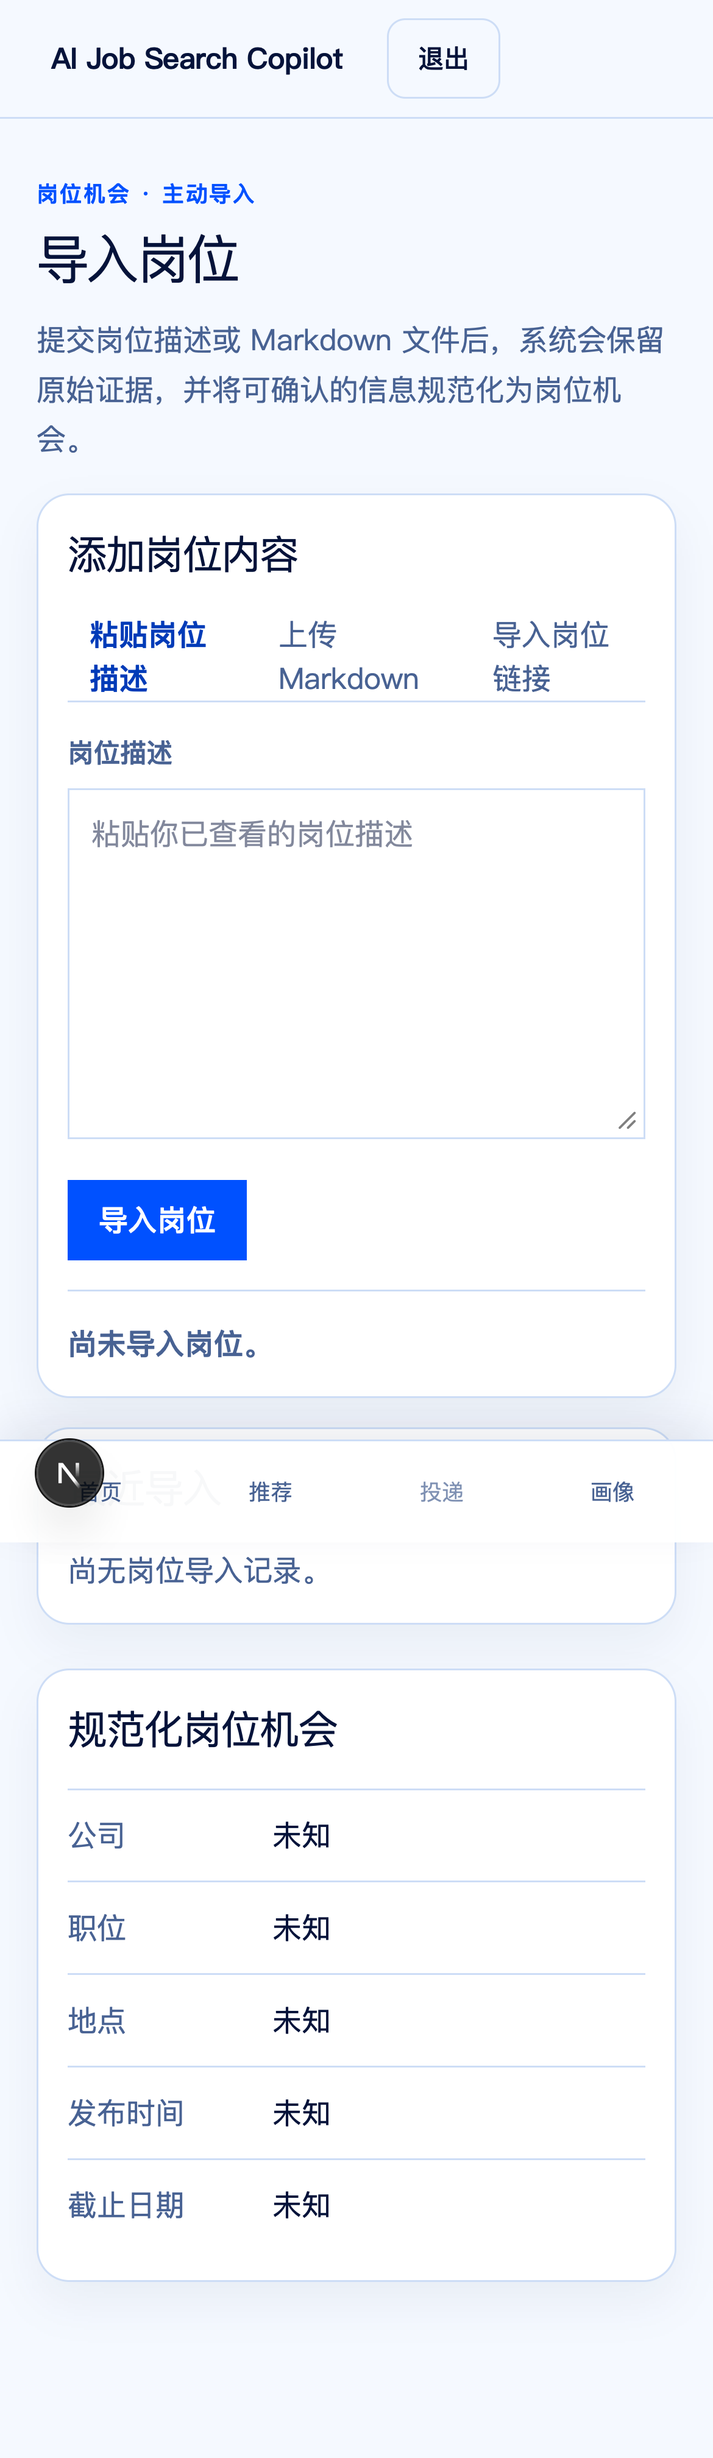
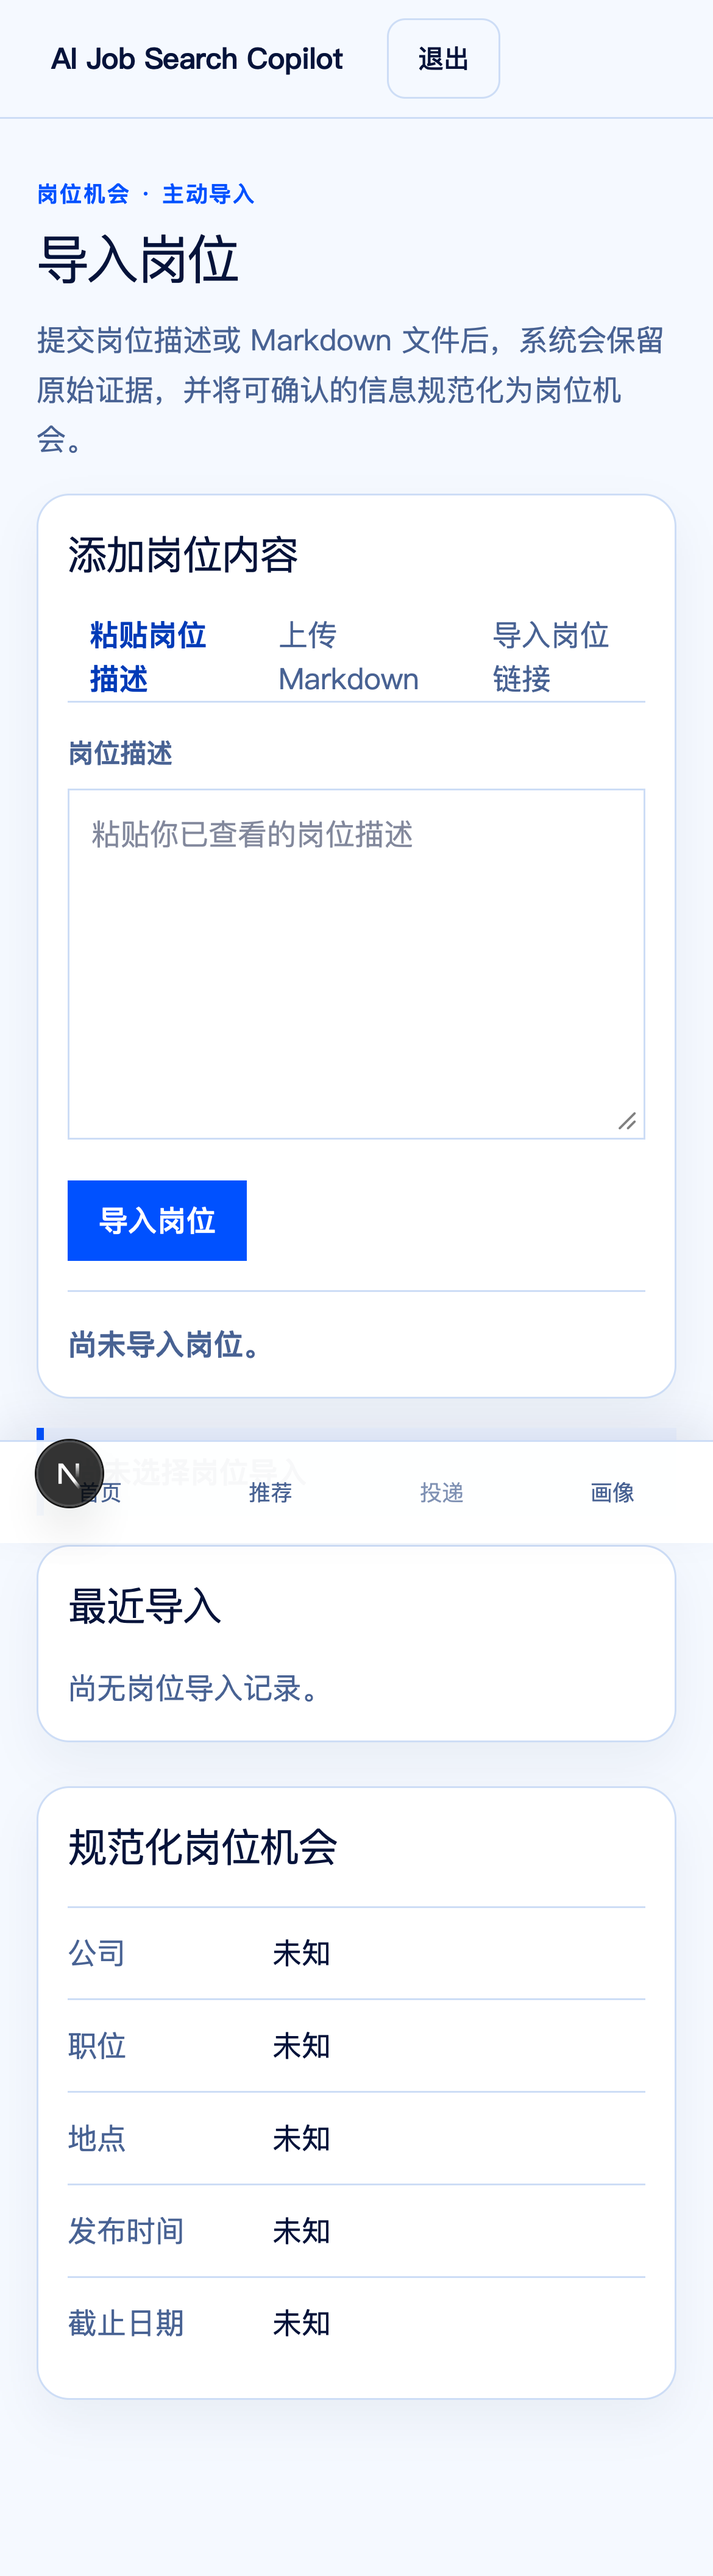
feat(web): complete career lens operational states

diff --git a/apps/web/e2e/career-lens-acceptance.spec.ts b/apps/web/e2e/career-lens-acceptance.spec.ts
@@ -53,6 +53,25 @@ async function signIn(page: Page): Promise<void> {
   await expect(page).toHaveURL(/\/home$/u);
 }
 
+async function createCandidateReviewFixture(request: APIRequestContext, project: string): Promise<string> {
+  const session = await request.post(`${apiBaseUrl}/v1/auth/dev/sessions`, {
+    headers: { "x-dev-auth-secret": devAuthSecret }, data: { subject: `career-lens-review-${project}-${Date.now()}` },
+  });
+  expect(session.status()).toBe(201);
+  const token = (await session.json() as { sessionToken: string }).sessionToken;
+  const created = await request.post(`${apiBaseUrl}/v1/career-documents/imports`, {
+    headers: { authorization: `Bearer ${token}` },
+    multipart: { privacyMode: "sanitized_only", file: { name: "career-lens-review.md", mimeType: "text/markdown", buffer: Buffer.from("## 技能\n- TypeScript", "utf8") } },
+  });
+  expect(created.status()).toBe(202);
+  const { importId } = await created.json() as { importId: string };
+  await expect.poll(async () => {
+    const detail = await request.get(`${apiBaseUrl}/v1/career-documents/imports/${importId}`, { headers: { authorization: `Bearer ${token}` } });
+    return detail.ok() ? (await detail.json() as { status: string }).status : "unavailable";
+  }, { timeout: 20_000 }).toBe("completed");
+  return token;
+}
+
 test("captures real Alpha routes for the career lens acceptance review", async ({ page }, testInfo) => {
   await page.emulateMedia({ reducedMotion: "reduce" });
   await page.goto("/");
@@ -89,4 +108,24 @@ test("captures a seeded real Watchlist route without substituting prototype data
   await expect(page.getByRole("article", { name: "目标公司来源：职业透镜真实验收来源" })).toBeVisible();
   await expect(page.evaluate(() => document.documentElement.scrollWidth <= document.documentElement.clientWidth)).resolves.toBe(true);
   await page.screenshot({ path: fixtureScreenshotPath("profile-targets-watchlist-seeded", testInfo.project.name), fullPage: true });
+});
+
+test("captures real Inbox、导入审核与首次推荐旅程状态", async ({ page, request }, testInfo) => {
+  await page.emulateMedia({ reducedMotion: "reduce" });
+  const token = await createCandidateReviewFixture(request, testInfo.project.name);
+  await page.context().addCookies([{ name: "job_copilot_session", value: token, domain: "127.0.0.1", path: "/", httpOnly: true, sameSite: "Lax" }]);
+
+  await page.goto("/home");
+  await expect(page.getByRole("region", { name: "需要你决定的事项", exact: true })).toBeVisible();
+  await expect(page.getByRole("article", { name: "有待确认的画像事实" })).toBeVisible();
+  await expect(page.getByRole("region", { name: "首次推荐旅程" })).toBeVisible();
+  await expect(page.evaluate(() => document.documentElement.scrollWidth <= document.documentElement.clientWidth)).resolves.toBe(true);
+  await page.screenshot({ path: fixtureScreenshotPath("home-inbox", testInfo.project.name), fullPage: true });
+  await page.screenshot({ path: fixtureScreenshotPath("home-first-recommendation-journey", testInfo.project.name), fullPage: true });
+
+  await page.goto("/profile#candidate-facts");
+  await expect(page.getByRole("heading", { name: "待确认事实" })).toBeVisible();
+  await expect(page.getByText("TypeScript", { exact: true })).toBeVisible();
+  await expect(page.evaluate(() => document.documentElement.scrollWidth <= document.documentElement.clientWidth)).resolves.toBe(true);
+  await page.screenshot({ path: fixtureScreenshotPath("profile-import-review", testInfo.project.name), fullPage: true });
 });

diff --git a/apps/web/components/workbench/account-run-policy-view.tsx b/apps/web/components/workbench/account-run-policy-view.tsx
@@ -260,7 +260,7 @@ export function AccountRunPolicyView({ initialControl = null, initialPolicy }: {
     }
   }
 
-  return <main aria-label="账户运行策略" className="container profile-main">
+  return <main aria-label="账户运行策略" className="container profile-main account-run-policy-main">
     <section className="profile-intro"><p className="workbench-kicker">求职画像 · 运行策略</p><h1>账户运行策略</h1><p>系统硬上限保护每次运行。你可以保存更保守的额度；手动运行不受后台窗口限制。</p></section>
     <section aria-labelledby="account-run-control-title" className="job-targets-section">
       <h2 id="account-run-control-title">账户运行控制</h2>
@@ -271,7 +271,7 @@ export function AccountRunPolicyView({ initialControl = null, initialPolicy }: {
       {controlUnavailable && !controlMessage ? <p>运行控制暂不可用</p> : null}
       {controlMessage ? <p aria-live="polite" className="run-policy-status" role="status">{controlMessage}</p> : null}
     </section>
-    <section aria-labelledby="run-policy-comparison-title" className="job-targets-section">
+    <section aria-label="策略生效对照" className="job-targets-section run-policy-comparison">
       <h2 id="run-policy-comparison-title">当前策略对照</h2>
       <div aria-label="当前策略对照表，可横向滚动" className="run-policy-table-wrap" tabIndex={0}><table><thead><tr><th scope="col">设置</th><th scope="col">系统默认</th><th scope="col">硬上限</th><th scope="col">你的设置</th><th scope="col">最终生效</th></tr></thead><tbody>
         {(Object.keys(discoveryLabels) as Array<keyof typeof discoveryLabels>).map((key) => <tr key={key}><th scope="row">{discoveryLabels[key]}</th><td>{defaults.discovery[key]}</td><td>{hardLimits.discovery[key]}</td><td>{policy.userSettings?.discovery[key] ?? "系统默认"}</td><td>{policy.effective.discovery[key]}</td></tr>)}

diff --git a/apps/web/components/workbench/model-connection-view.tsx b/apps/web/components/workbench/model-connection-view.tsx
@@ -120,7 +120,7 @@ export function ModelConnectionView({ initialDiagnostics }: { initialDiagnostics
       <h1 id="model-connection-title">模型连接</h1>
       <p>检查当前部署是否能安全使用模型功能。检查不会展示或请求你的账户信息。</p>
     </section>
-    <section aria-labelledby="model-connection-status-title" className="workbench-ledger model-connection-ledger">
+    <section aria-label="当前诊断摘要" className="workbench-ledger model-connection-ledger">
       <div className="workbench-ledger-heading"><h2 id="model-connection-status-title" title={statusTitle[diagnostics.status]}>{statusTitle[diagnostics.status]}</h2></div>
       <p aria-live="polite" className="model-connection-live" role="status">{liveText}</p>
       <dl className="model-connection-details">
@@ -129,7 +129,7 @@ export function ModelConnectionView({ initialDiagnostics }: { initialDiagnostics
         <div><dt>上次检查</dt><dd>{formatTime(diagnostics.checkedAt) ?? "尚未检查"}</dd></div>
         <div><dt>响应速度</dt><dd>{diagnostics.latencyBucket ? { under_1s: "1 秒内", "1_to_5s": "1–5 秒", "5_to_10s": "5–10 秒", "10_to_20s": "10–20 秒", timeout: "已超时" }[diagnostics.latencyBucket] : "尚未检查"}</dd></div>
       </dl>
-      <section aria-labelledby="model-connection-checks-title" className="model-connection-checks">
+      <section aria-label="四项模型诊断" className="model-connection-checks">
         <h3 id="model-connection-checks-title">检查项目</h3>
         <ul>{checks.map(([key, label]) => <li key={key}><span>{label}</span><strong title={`${label}：${statusText[diagnostics.checks[key]]}`}>{statusText[diagnostics.checks[key]]}</strong></li>)}</ul>
       </section>

diff --git a/apps/web/components/workbench/job-import-view.tsx b/apps/web/components/workbench/job-import-view.tsx
@@ -62,6 +62,7 @@ export function JobImportView({ initialImports, initialTargets = [] }: JobImport
   const activeImportId = activeImport?.importId;
   const detailImportId = detail?.importId;
   const detailStatus = detail?.status;
+  const activeImportStatus = activeImport ? `${importLabel(activeImport)} · ${statusText[activeImport.status]}` : "尚未选择岗位导入";
 
   const nextEvidenceRevision = useCallback(() => {
     const next = evidenceRevisionRef.current + 1;
@@ -198,6 +199,7 @@ export function JobImportView({ initialImports, initialTargets = [] }: JobImport
         {announcement && <p aria-live="polite">{announcement}</p>}
         {pollingMessage && actionState.ok === false && actionState.message && <p>{pollingMessage}</p>}
       </section>
+      <section aria-label="当前导入任务状态" className="job-import-status-panel"><p>{activeImportStatus}</p></section>
       <div className="job-import-columns">
         <section aria-labelledby="recent-job-imports-title" className="job-import-panel"><h2 id="recent-job-imports-title">最近导入</h2>
           {recentImports.length === 0 ? <p>尚无岗位导入记录。</p> : <ol className="job-import-recent-list">{recentImports.map((item) => <li key={item.importId}><button aria-pressed={activeImport?.importId === item.importId} className="workbench-touch-target" onClick={() => selectImport(item)} type="button"><span>{importLabel(item)}</span><span>{statusText[item.status]}</span></button></li>)}</ol>}

diff --git a/apps/web/app/globals.css b/apps/web/app/globals.css
@@ -1158,6 +1158,8 @@ summary.workbench-touch-target:focus-visible,
 .agent-inbox-details dd { margin: 0; overflow-wrap: anywhere; }
 .agent-inbox-actions { display: flex; flex-wrap: wrap; gap: 0.75rem; margin-top: 1rem; }
 .job-import-workbench { display: grid; gap: 1.5rem; }
+.job-import-status-panel { align-items: center; background: color-mix(in srgb, var(--cobalt) 8%, var(--surface)); border-inline-start: 0.25rem solid var(--cobalt); display: flex; min-height: 3rem; padding: 0.75rem 1rem; }
+.job-import-status-panel p { color: var(--ink); font-weight: 700; margin: 0; }
 .job-import-panel { background: var(--surface); border: 1px solid var(--rule); box-shadow: var(--shadow-paper); min-width: 0; padding: clamp(1.25rem, 4vw, 2rem); }
 .job-import-panel li, .job-import-panel p { min-width: 0; overflow-wrap: anywhere; }
 .job-import-panel h2 { font-size: 1.35rem; letter-spacing: -0.025em; margin: 0 0 1rem; }
@@ -1726,6 +1728,8 @@ summary.workbench-touch-target:focus-visible,
   max-width: 100%;
   overflow-x: auto;
 }
+
+.account-run-policy-main .run-policy-comparison { border-inline-start: 0.25rem solid var(--cobalt); }
 
 .run-policy-table-wrap table {
   border-collapse: collapse;

diff --git a/apps/web/components/workbench/account-run-policy-view.test.tsx b/apps/web/components/workbench/account-run-policy-view.test.tsx
@@ -115,6 +115,8 @@ it("旧停止命令重放后以重新读取的解除状态为准", async () => {
 
 it("未停止时仅说明停止效果，不把当前状态说成已停止", () => {
   render(<AccountRunPolicyView initialControl={activeControl} initialPolicy={initialPolicy} />);
+  expect(screen.getByRole("main", { name: "账户运行策略" })).toHaveClass("account-run-policy-main");
+  expect(screen.getByRole("region", { name: "策略生效对照" })).toBeVisible();
   expect(screen.queryByText("已停止新动作，正在运行的任务将在下一个安全检查点终止。已发出的请求可能仍产生费用")).not.toBeInTheDocument();
   expect(screen.getByText("停止后将阻止新的运行和外部动作，正在运行的任务会在下一个安全检查点终止；已发出的请求可能仍产生费用。")).toBeInTheDocument();
 });

diff --git a/apps/web/components/workbench/company-watchlist-view.tsx b/apps/web/components/workbench/company-watchlist-view.tsx
@@ -208,7 +208,7 @@ export function CompanyWatchlistView({ initialOverview, initialSourceHealth, ini
   }
 
   return <main aria-label="公司来源台账" className="container workbench-main company-watchlist-main">
-    <section aria-labelledby="company-watchlist-title" className="company-watchlist-intro">
+    <section aria-label="当前 Watchlist 状态" className="company-watchlist-intro">
       <p className="workbench-kicker">求职目标 · 公开来源台账</p>
       <h1 id="company-watchlist-title">{overview.target.roleFamily}的目标公司 Watchlist</h1>
       <p>为已确认的求职目标维护可验证的公开招聘来源。顺序决定优先级，已停用来源不会进入新的运行范围。</p>

diff --git a/apps/web/components/workbench/job-import-view.test.tsx b/apps/web/components/workbench/job-import-view.test.tsx
@@ -24,6 +24,7 @@ it("提供粘贴和 Markdown 上传入口、未知字段与可访问状态", asy
   const user = userEvent.setup();
   render(<JobImportView initialImports={[]} />);
   expect(screen.getByRole("main", { name: "岗位导入" })).toBeVisible();
+  expect(screen.getByRole("region", { name: "当前导入任务状态" })).toHaveTextContent("尚未选择岗位导入");
   expect(screen.getByRole("textbox", { name: "岗位描述" })).toBeVisible();
   await user.click(screen.getByRole("tab", { name: "上传 Markdown" }));
   expect(screen.getByLabelText("上传 Markdown 岗位文件")).toHaveAttribute("accept", ".md,text/markdown");

diff --git a/apps/web/components/workbench/model-connection-view.test.tsx b/apps/web/components/workbench/model-connection-view.test.tsx
@@ -20,6 +20,8 @@ it.each([
   render(<ModelConnectionView initialDiagnostics={initial} />);
   expect(screen.getByRole("main", { name: "模型诊断" })).toBeVisible();
   expect(screen.getByRole("heading", { name: "模型连接" })).toBeInTheDocument();
+  expect(screen.getByRole("region", { name: "当前诊断摘要" })).toBeVisible();
+  expect(screen.getByRole("region", { name: "四项模型诊断" })).toBeVisible();
   expect(screen.getByRole("status")).toHaveTextContent(title);
   expect(screen.getByText("身份验证")).toBeInTheDocument();
   expect(screen.getByText("模型可用性")).toBeInTheDocument();
